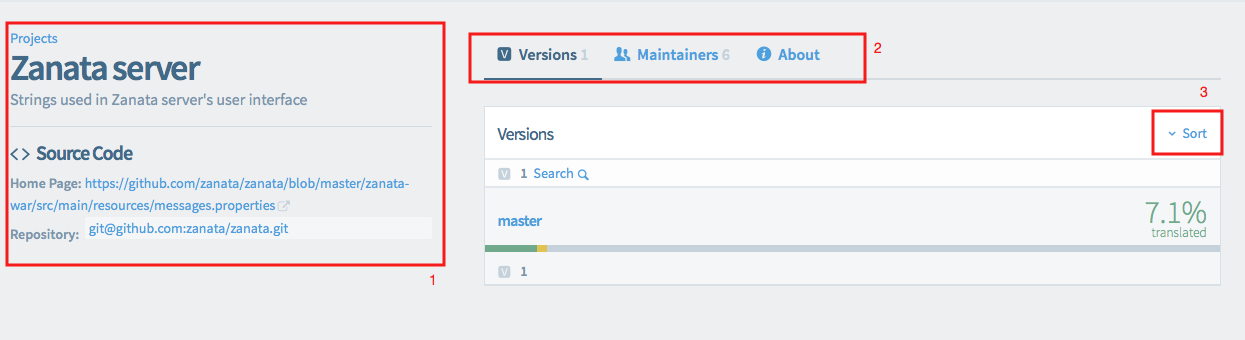
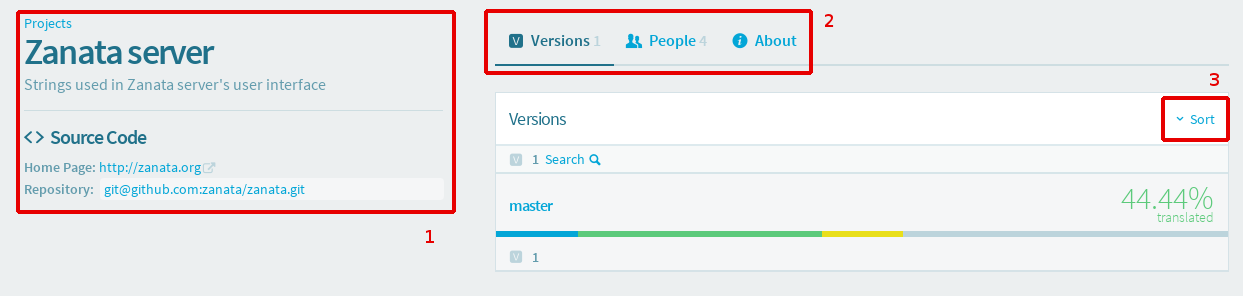
docs(project-roles): add docs for project roles
Includes a few modifications to related docs, and some updated screenshots
where the Maintainers tab was shown, since it has changed to the People tab.

Changed region(s): [[0.0, 0.0304, 1.0, 0.8818], [0.3974, 0.3649, 0.4586, 0.4257]]

diff --git a/docs/user-guide/projects/project-team.md b/docs/user-guide/projects/project-team.md
@@ -1,0 +1,89 @@
+Each project has a team of people. The project team must have at least one Maintainer.
+A project can be maintained and translated with just a Maintainer on the team, but
+you may wish to add more people if you want to do any of the following:
+
+ - Allow other users to help maintain the project and version settings.
+ - Allow translation or review by users who are not members of the global translation team for a language.
+ - Allow only your assigned translators and reviewers to work on the project. This requires setting [Invite only](/user-guide/projects/project-settings#invite-only).
+ - Delegate other users to help assign and manage translators and reviewers.
+
+## Project People tab
+
+View and edit the project team in the People tab. The People tab is on the project home page.
+
+![project people tab](/images/project-view-people.png)
+
+
+## Roles
+
+The following roles are available in the project team. Each role applies only to
+one project. To gain permissions on multiple projects, a user must be assigned in
+each, or must join a [global language team](/user-guide/languages/language-team).
+
+
+### Project Maintainer
+
+A Maintainer has full permissions for a project. Maintainers can:
+
+ - Change all project settings.
+ - Create and manage versions.
+ - Add and remove other Maintainers and Translation Maintainers
+ - Add and remove Translators and Reviewers for any language.
+ - Perform all translation tasks.
+
+
+### Translation Maintainer
+
+A Translation Maintainer can manage the language-specific roles in the project team. Translation Maintainers can:
+
+ - Add and remove Translators and Reviewers for any language.
+ - Perform all translation tasks.
+
+
+### Translator (for a language)
+
+A Translator can translate any document for any version into their locale.
+
+
+### Reviewer (for a language)
+
+A Reviewer can translate and review any document for any version in their locale.
+
+
+## Change team members
+
+Only admin, maintainer, translation maintainer are allowed. If you do not see
+the buttons, make sure you are logged in and you have the right permissions.
+If you do not have permission, you have to ask the maintainers to give you permission.
+
+![manage permissions dialog](/images/project-people-manage-permissions.png)
+
+
+### Add someone to the team
+
+To add someone to the project team:
+
+ - Click "Add Someone".
+ - Search for the user by typing their username or full name in the text box.
+ - Select the user when they are shown in the search results.
+ - Click the role or roles that you want the user to have.
+ - Click "Add person"
+
+The user will be shown in the list of people, with their new role or roles.
+
+
+### Add or remove roles for a user
+
+To give a user more roles or remove roles the user has:
+
+ - Open the People tab for the project.
+ - Click "Manage permissions" next to the person in the list.
+ - Click the roles you wish to add or remove.
+ - Click "Save permissions".
+
+
+### Remove someone from the team
+
+To remove someone from the team, just remove all their roles. The button in the
+"Manage permissions" dialog will change to show that the person will be removed
+when you save the permissions.

diff --git a/docs/user-guide/projects/project-settings.md b/docs/user-guide/projects/project-settings.md
@@ -86,6 +86,13 @@ To remove a language from the list of available locales, first move the cursor o
 </figure>
 
 ------------
+### Invite only
+
+This setting determines which users will be allowed to translate your project.
+When it is inactive, any translator can translate your project into their language,
+as long as their language is enabled in your project. When the setting is active,
+only translators in your [project team](/user-guide/projects/project-team/) are allowed to translate your project.
+
 ### Validations
 
 Validations run in the translation editor and help translators to provide translations that are valid for your project. Validations set to `Warning` or `Error` in this list will be displayed in the translation editor when an invalid translation has been entered.
@@ -111,6 +118,8 @@ Refer to [the Copy Translations reference](/user-guide/translation-reuse/copy-tr
 <figcaption>Project Permissions Settings tab</figcaption>
 </figure>
 <br>
+
+Note: Maintainers can also be added and removed through the [project team](/user-guide/projects/project-team/).
 
 ### Add a Maintainer
 

diff --git a/docs/user-guide/languages/language-team.md b/docs/user-guide/languages/language-team.md
@@ -1,6 +1,8 @@
 A Language Team groups translators together through a common language. Language Teams can work simultaneously on translating a single document into their respective languages. All translations and all revisions are kept with each respective Language Team without affecting any other Team.
 
-Translators can also join more than one Language Team.
+Translators can join more than one Language Team.
+
+Translators can also join a [project team](/user-guide/projects/project-team/) so that they can translate that project without having to join the global Language Team.
 
 ------------
 

diff --git a/docs/user-guide/projects/project-view.md b/docs/user-guide/projects/project-view.md
@@ -11,7 +11,7 @@ When a project is selected, you will be taken to an overall view of the project.
 
 The different views for a project offer more information about it.
 
-- **Maintainers** shows the project Maintainers.
+- **People** shows the project Maintainers, Translators and Reviewers.
 - **About** shows more information about the project.
 - **Settings** _(This is only available to Project Maintainers)_ allows the user to change project settings.
 
